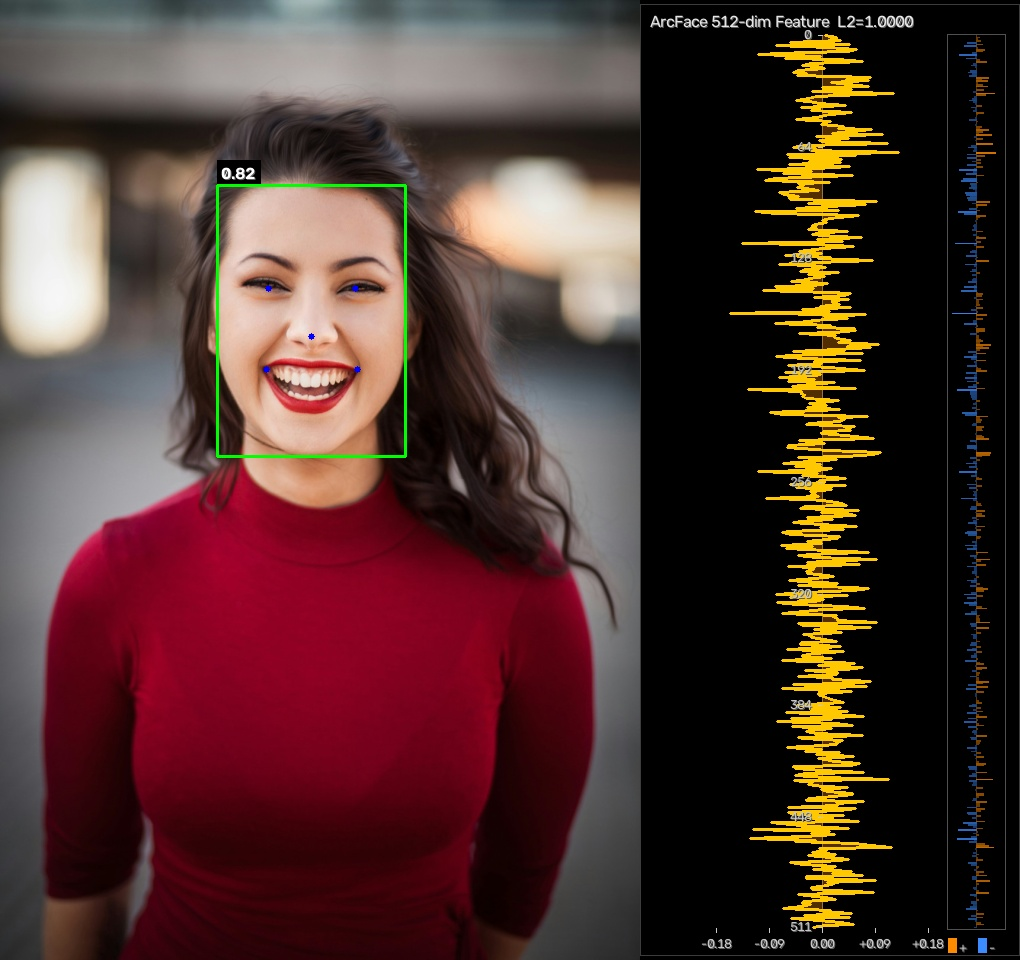
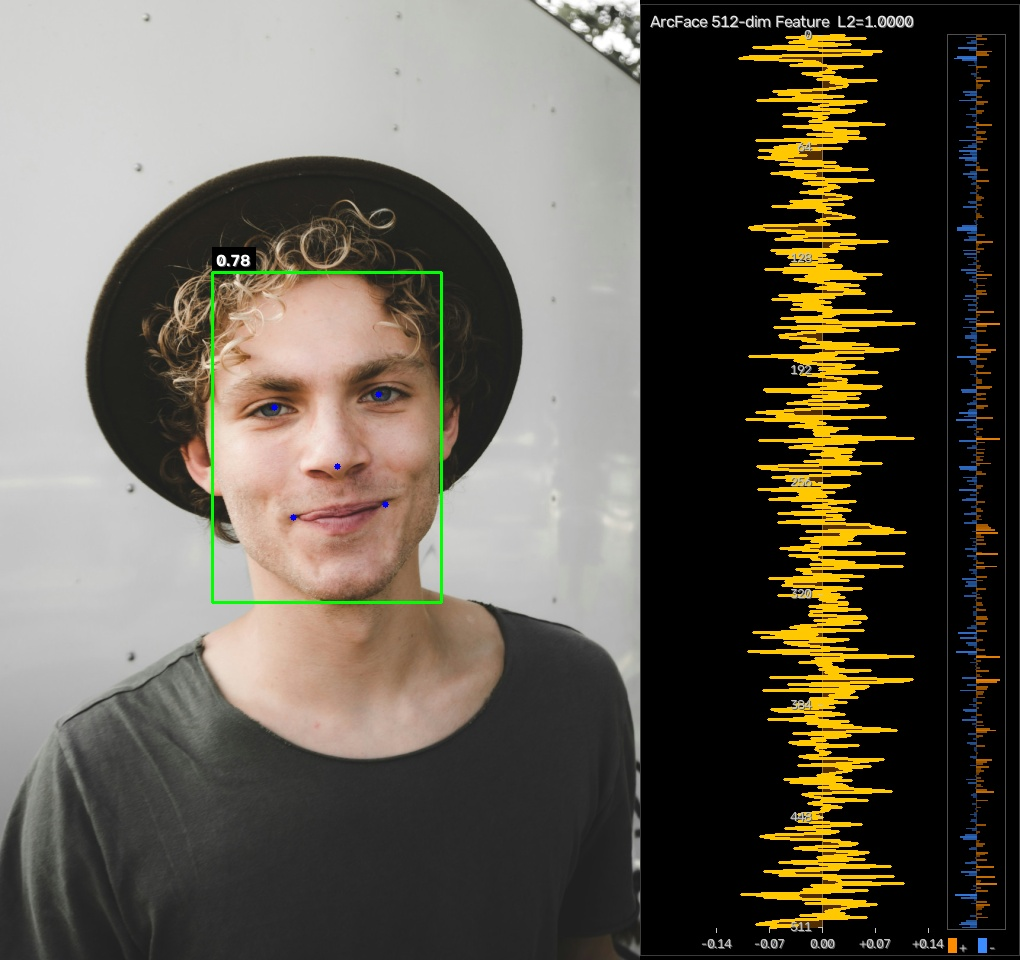
update example image, fix figure description

diff --git a/examples/image_arcface.py b/examples/image_arcface.py
@@ -15,7 +15,7 @@ override_modules = [
     os.path.join(os.path.dirname(__file__), "../../seetapsych-lib/seetapsych_lib/modules"),
 ]
 
-image_path = os.path.join(os.path.dirname(__file__), "michael-dam.jpg")
+image_path = os.path.join(os.path.dirname(__file__), "ian-dooley.jpg")
 
 COLOR_FACE_PRIMARY: tuple[int, int, int] = (0, 255, 0)
 COLOR_FACE_SECONDARY: tuple[int, int, int] = (255, 0, 255)

diff --git a/examples/image_retinaface.py b/examples/image_retinaface.py
@@ -15,7 +15,7 @@ override_modules = [
     os.path.join(os.path.dirname(__file__), "../../seetapsych-lib/seetapsych_lib/modules"),
 ]
 
-image_path = os.path.join(os.path.dirname(__file__), "michael-dam.jpg")
+image_path = os.path.join(os.path.dirname(__file__), "ian-dooley.jpg")
 
 COLOR_FACE_PRIMARY: tuple[int, int, int] = (0, 255, 0)
 COLOR_FACE_SECONDARY: tuple[int, int, int] = (255, 0, 255)

diff --git a/README.md b/README.md
@@ -119,7 +119,7 @@ Module config: [insightface/arcface.yml](https://github.com/seetapsych/seetapsyc
 
 <div align="center" id="figure-mediapipe-result">
   <img src="https://raw.githubusercontent.com/seetapsych/seetapsych-face-hub/main/assets/example-mediapipe.jpg" alt="MediaPipe Tasks visualization of detected face box and 468-point 3D face mesh landmarks on a sample portrait" style="max-width: 480px; max-height: 480px;"/>
-  <p><em><strong>Figure 3.</strong> MediaPipe Tasks output visualization — BlazeFace detection box and 468-point 3D FaceMesh landmarks.</em></p>
+  <p><em><strong>Figure 3.</strong> MediaPipe Tasks output visualization — face detection bbox and 468-point 3D FaceMesh landmarks.</em></p>
 </div>
 
 Module config: [mediapipe.yml](https://github.com/seetapsych/seetapsych-face-hub/blob/main/seetapsych_face_hub/modules/mediapipe.yml)
